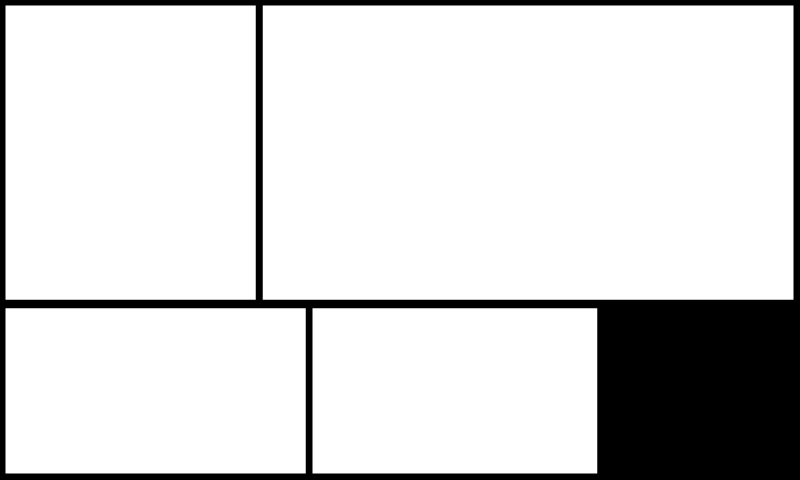
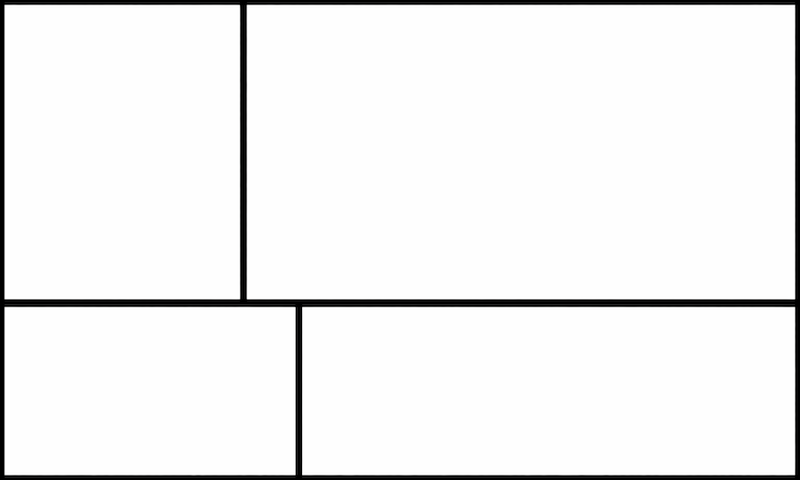
rm old templates

Changed region(s): [[0.0, 0.0, 1.0, 1.0]]

diff --git a/weather.py b/weather.py
@@ -242,7 +242,7 @@ while True:
             display_error('HTTP')
 
     # Open template file
-    template = Image.open(os.path.join(picdir, 'template4.png'))
+    template = Image.open(os.path.join(picdir, 'template.png'))
     # Initialize the drawing context with template as background
     draw = ImageDraw.Draw(template)
 
